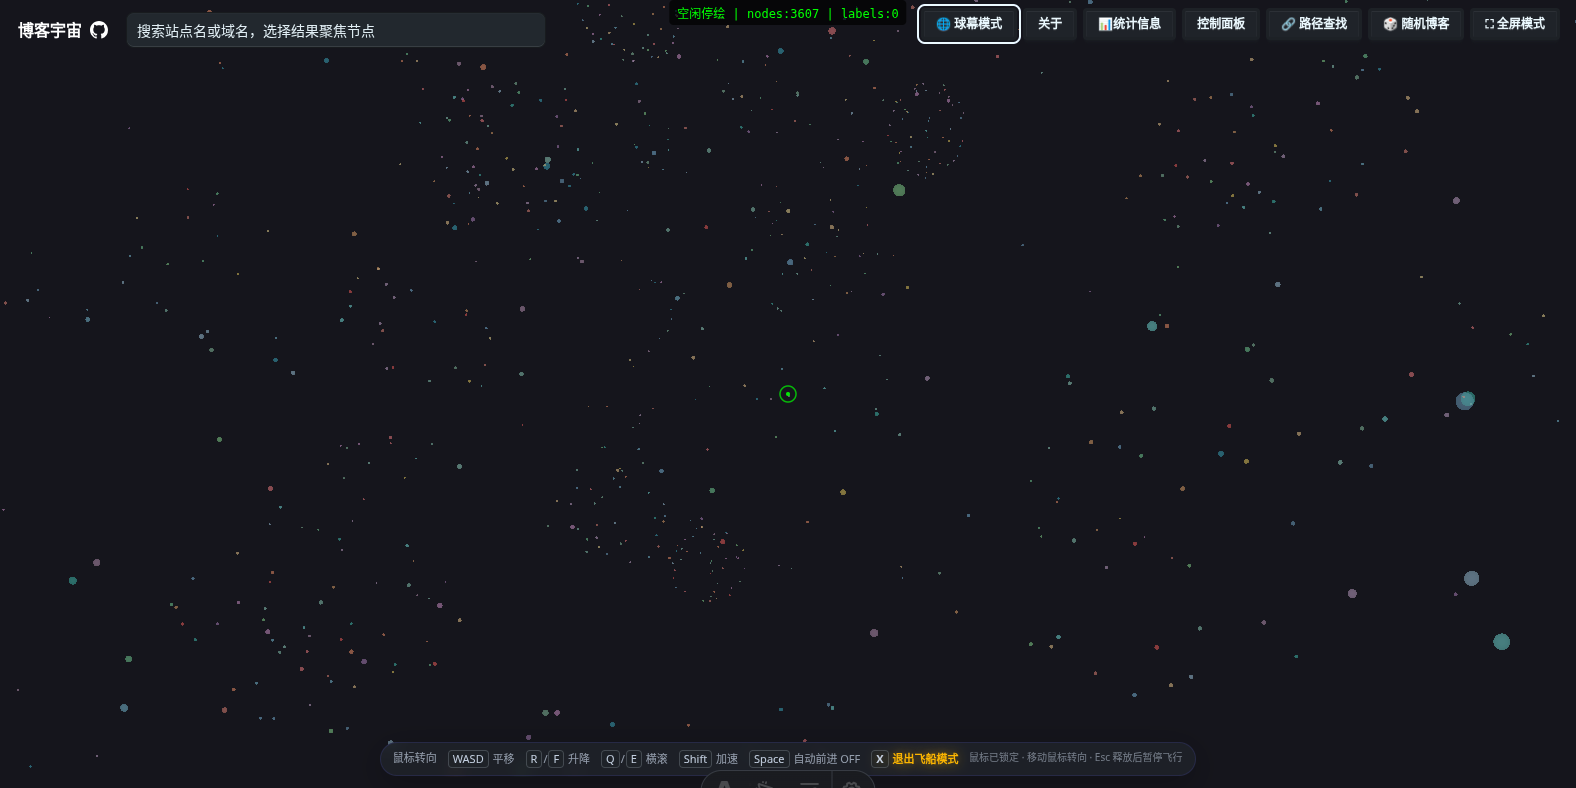
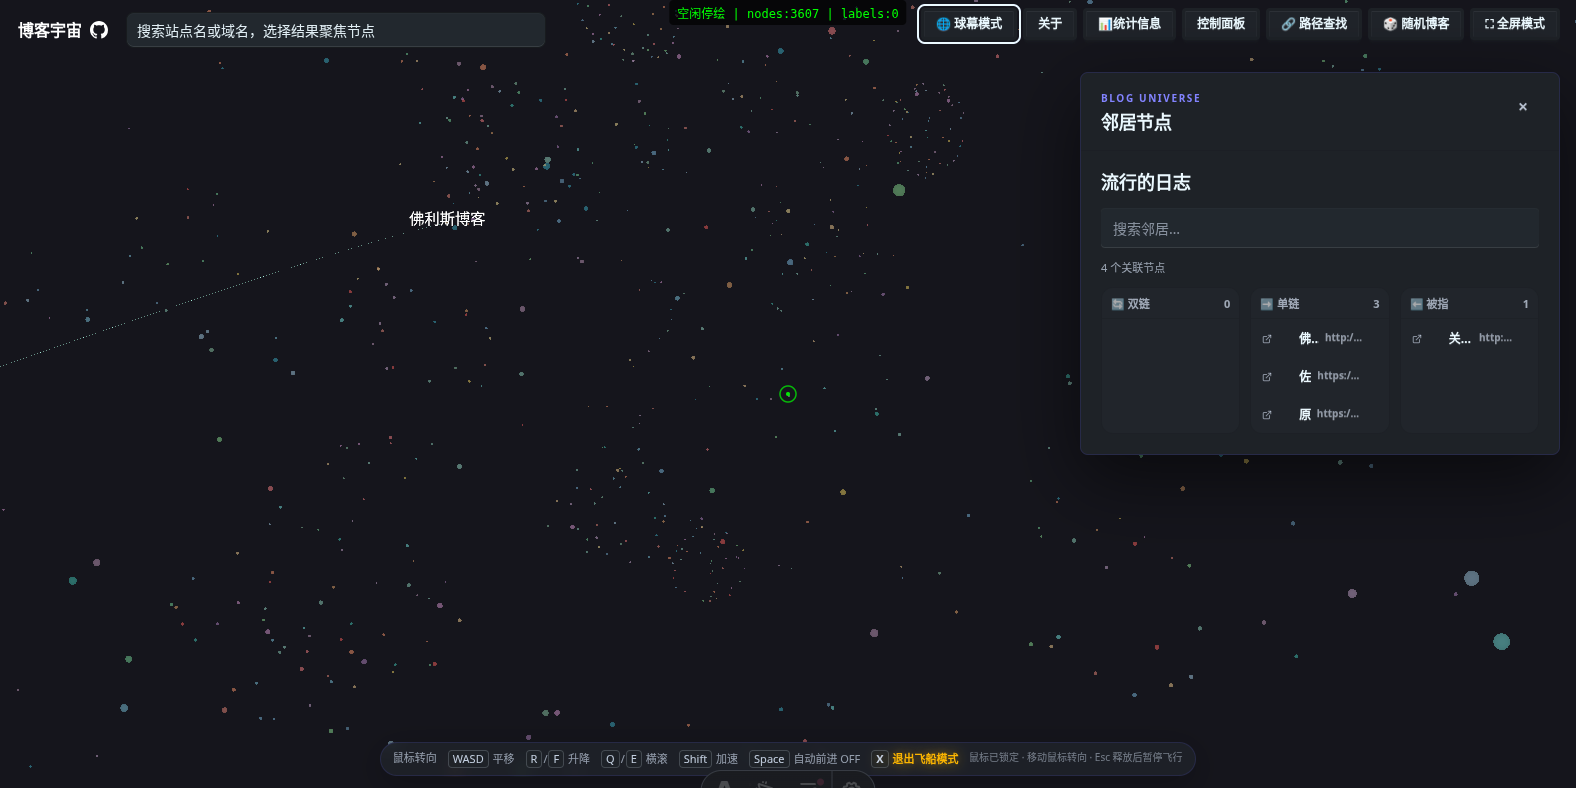
test: 覆盖中键提示与飞控退出

diff --git a/scripts/experiments/frontend-controls-verify.ts b/scripts/experiments/frontend-controls-verify.ts
@@ -96,6 +96,12 @@ async function waitForGraph(page: Page) {
   await page.waitForTimeout(700);
 }
 
+async function canvasCenter(page: Page) {
+  const box = await page.locator("#main canvas").boundingBox();
+  if (!box) throw new Error("Canvas unavailable for pointer verification");
+  return { x: Math.round(box.x + box.width / 2), y: Math.round(box.y + box.height / 2) };
+}
+
 async function cameraState(page: Page): Promise<CameraState> {
   return page.evaluate(() => {
     const camera = window.__graphApi!.ctx!.camera as unknown as {
@@ -198,6 +204,16 @@ async function main() {
   await page.bringToFront();
   await waitForGraph(page);
   await page.evaluate(() => {
+    const opened: unknown[] = [];
+    const originalOpen = window.open;
+    (window as unknown as { __verifyOpened: unknown[] }).__verifyOpened = opened;
+    (window as unknown as { __verifyOriginalOpen: typeof window.open }).__verifyOriginalOpen = originalOpen;
+    window.open = (...args: Parameters<typeof window.open>) => {
+      opened.push(args);
+      return null;
+    };
+  });
+  await page.evaluate(() => {
     (window as unknown as { __verifyKeys: unknown[] }).__verifyKeys = [];
     for (const type of ["keydown", "keyup"] as const) {
       document.addEventListener(
@@ -289,6 +305,40 @@ async function main() {
   await page.locator("dialog.app-panel[open] .app-panel-close").click();
   await page.waitForFunction(() => !document.querySelector("dialog.app-panel[open]"));
 
+  const focusTarget = await page.evaluate(() => {
+    const nodes = window.__graphApi!.getGraphData!().nodes as Array<{
+      id: string;
+      name: string;
+      url: string;
+      x?: number;
+      y?: number;
+      z?: number;
+    }>;
+    const node = nodes.find(
+      (candidate) => candidate.url && candidate.x != null && candidate.y != null && candidate.z != null,
+    );
+    if (!node) return null;
+    window.__graphApi!.focusNodeById!(node.id);
+    return { id: node.id, name: node.name, url: node.url };
+  });
+  if (!focusTarget) throw new Error("No positioned URL node available for hover verification");
+  await sleep(1_100);
+  const hoverCenter = await canvasCenter(page);
+  await page.mouse.move(hoverCenter.x, hoverCenter.y);
+  await page.waitForFunction(() => document.getElementById("graph-tooltip")?.style.display === "block", undefined, {
+    timeout: 5_000,
+  });
+  const tooltipText = await page.evaluate(() => document.getElementById("graph-tooltip")?.textContent ?? "");
+  await page.mouse.click(hoverCenter.x, hoverCenter.y, { button: "middle" });
+  await sleep(80);
+  const opened = await page.evaluate(() => (window as unknown as { __verifyOpened?: unknown[] }).__verifyOpened ?? []);
+  check(
+    "悬停提示中键在新标签页打开网站（不触发页面跳转）",
+    tooltipText.includes("中键在新标签页打开网站") &&
+      opened.some((entry) => Array.isArray(entry) && entry[0] === focusTarget.url),
+    { target: focusTarget, tooltipText, opened },
+  );
+
   await page.locator("#fly-toggle").click();
   const pointerLockMode = await ensurePointerLock(page);
   const hud = await page.evaluate(() => {
@@ -333,10 +383,19 @@ async function main() {
   const afterLook = await cameraState(page);
   const lookPositionChange = length(subtract(afterLook.position, beforeLook.position));
   const lookRotationChange = quaternionDistance(afterLook.quaternion, beforeLook.quaternion);
-  check("鼠标只转向不位移", lookPositionChange < 1e-6 && lookRotationChange > 0.01, {
-    positionChange: round(lookPositionChange),
-    rotationChange: round(lookRotationChange),
-  });
+  const lookDelta = subtract(afterLook.forward, beforeLook.forward);
+  const lookRight = dot(lookDelta, beforeLook.right);
+  const lookUp = dot(lookDelta, beforeLook.up);
+  check(
+    "鼠标右移向上看且不位移",
+    lookPositionChange < 1e-6 && lookRotationChange > 0.01 && lookRight > 0.02 && lookUp > 0.02,
+    {
+      positionChange: round(lookPositionChange),
+      rotationChange: round(lookRotationChange),
+      lookRight: round(lookRight),
+      lookUp: round(lookUp),
+    },
+  );
 
   const movementCases: Array<{
     label: string;
@@ -436,13 +495,38 @@ async function main() {
   check("无输入后停止绘帧", idleEnd - idleStart === 0, { frameDelta: idleEnd - idleStart });
 
   await page.screenshot({ path: screenshotPath, fullPage: false });
+  const rolledBeforeExit = await cameraState(page);
   await page.keyboard.press("x");
   await page.waitForFunction(() => document.getElementById("fly-hud")?.hidden === true);
   const exited = await page.evaluate(() => ({
     hudHidden: document.getElementById("fly-hud")?.hidden === true,
     buttonText: document.getElementById("fly-toggle")?.textContent?.trim(),
   }));
-  check("X 退出飞船模式", exited.hudHidden && exited.buttonText === "🚀 飞船模式", exited);
+  const exitedCamera = await cameraState(page);
+  const exitForwardPreserved = dot(rolledBeforeExit.forward, exitedCamera.forward);
+  const exitLeveled = Math.abs(exitedCamera.right[1]) < 0.02;
+  await sleep(700);
+  const exitIdleStart = await page.evaluate(() => window.__graphApi!.getPerformanceStats!().frames);
+  await sleep(500);
+  const exitIdleEnd = await page.evaluate(() => window.__graphApi!.getPerformanceStats!().frames);
+  check(
+    "X 退出飞船模式并恢复水平视野",
+    exited.hudHidden &&
+      exited.buttonText === "🚀 飞船模式" &&
+      exitForwardPreserved > 0.999 &&
+      exitLeveled &&
+      exitIdleEnd === exitIdleStart,
+    {
+      ...exited,
+      forwardPreserved: round(exitForwardPreserved),
+      rightY: round(exitedCamera.right[1]),
+      idleFrameDelta: exitIdleEnd - exitIdleStart,
+    },
+  );
+  await page.evaluate(() => {
+    const originalOpen = (window as unknown as { __verifyOriginalOpen?: typeof window.open }).__verifyOriginalOpen;
+    if (originalOpen) window.open = originalOpen;
+  });
 
   const failed = checks.filter((entry) => !entry.pass);
   const report = {

diff --git a/src/scripts/graph3d/interaction.test.ts b/src/scripts/graph3d/interaction.test.ts
@@ -36,13 +36,15 @@ test("indexed picking preserves hover, clicks, fly-center targeting and cleans u
   const ix = createInteraction(ctx, [node]);
   const hovered: Array<GraphNode | null> = [];
   const clicked: GraphNode[] = [];
+  const middleClicked: GraphNode[] = [];
   const rightClicked: GraphNode[] = [];
   ix.onHover = (value) => hovered.push(value);
   ix.onClick = (value) => clicked.push(value);
+  ix.onMiddleClick = (value) => middleClicked.push(value);
   ix.onRightClick = (value) => rightClicked.push(value);
 
-  function dispatch(type: string, clientX: number, clientY: number) {
-    const event = Object.assign(new Event(type, { cancelable: true }), { clientX, clientY });
+  function dispatch(type: string, clientX: number, clientY: number, button = 0) {
+    const event = Object.assign(new Event(type, { cancelable: true }), { clientX, clientY, button });
     canvas.dispatchEvent(event);
     return event;
   }
@@ -65,6 +67,9 @@ test("indexed picking preserves hover, clicks, fly-center targeting and cleans u
     dispatch("click", 520, 530);
     dispatch("click", 20, 30);
     expect(clicked).toEqual([node]);
+    expect(dispatch("mousedown", 520, 530, 1).defaultPrevented).toBe(true);
+    expect(dispatch("auxclick", 520, 530, 1).defaultPrevented).toBe(true);
+    expect(middleClicked).toEqual([node]);
     expect(dispatch("contextmenu", 520, 530).defaultPrevented).toBe(true);
     expect(rightClicked).toEqual([node]);
 
@@ -72,9 +77,12 @@ test("indexed picking preserves hover, clicks, fly-center targeting and cleans u
     expect(ix.pickAtCenter()).toBe(node);
     expect(ix.lastPickCandidateCount).toBeGreaterThan(0);
     dispatch("click", 20, 30);
+    dispatch("mousedown", 20, 30, 1);
+    dispatch("auxclick", 20, 30, 1);
     dispatch("contextmenu", 20, 30);
-    expect(clicked).toEqual([node, node]);
-    expect(rightClicked).toEqual([node, node]);
+    expect(clicked).toEqual([node]);
+    expect(middleClicked).toEqual([node]);
+    expect(rightClicked).toEqual([node]);
     ix.setFlyMode(false);
     camera.rotation.y = Math.PI;
     camera.updateMatrixWorld();
@@ -82,7 +90,7 @@ test("indexed picking preserves hover, clicks, fly-center targeting and cleans u
     camera.rotation.y = 0;
     camera.updateMatrixWorld();
     dispatch("click", 20, 30);
-    expect(clicked).toEqual([node, node]);
+    expect(clicked).toEqual([node]);
 
     clock.mockReturnValue(300);
     dispatch("mousemove", 520, 530);
@@ -101,11 +109,14 @@ test("indexed picking preserves hover, clicks, fly-center targeting and cleans u
     clock.mockReturnValue(400);
     dispatch("mousemove", 520, 530);
     dispatch("click", 520, 530);
+    dispatch("mousedown", 520, 530, 1);
+    dispatch("auxclick", 520, 530, 1);
     expect(dispatch("contextmenu", 520, 530).defaultPrevented).toBe(false);
     dispatch("pointerleave", 20, 30);
     expect(hovered).toEqual([node, null, node, null, node, null]);
-    expect(clicked).toEqual([node, node]);
-    expect(rightClicked).toEqual([node, node]);
+    expect(clicked).toEqual([node]);
+    expect(middleClicked).toEqual([node]);
+    expect(rightClicked).toEqual([node]);
   } finally {
     ix.dispose();
     clock.mockRestore();
@@ -171,6 +182,7 @@ test("unchanged hover rays reuse exact picks while camera, scale, clip and layer
     expect(ix.hoveredIndex).toBe(0);
 
     // Explicit activation performs a new exact query, even after cached hover.
+    ix.setFlyMode(false);
     const event = Object.assign(new Event("click"), { clientX: 0, clientY: 0 });
     canvas.dispatchEvent(event);
     canvas.dispatchEvent(event);
@@ -186,7 +198,7 @@ test("unchanged hover rays reuse exact picks while camera, scale, clip and layer
   }
 });
 
-test("flight node activation requires this canvas's pointer lock and preserves relock clicks", () => {
+test("flight mouse activation is suppressed while orbit interactions still use the pointer", () => {
   class Canvas extends EventTarget {
     getBoundingClientRect() {
       return { left: 0, top: 0, width: 1000, height: 1000 };
@@ -233,8 +245,8 @@ test("flight node activation requires this canvas's pointer lock and preserves r
     pointerLock.document.pointerLockElement = canvas;
     activate("click");
     activate("contextmenu");
-    expect(clicked).toEqual([node]);
-    expect(rightClicked).toEqual([node]);
+    expect(clicked).toEqual([]);
+    expect(rightClicked).toEqual([]);
     expect(relockClicks).toBe(3);
 
     // Orbit interactions still use the physical pointer without requiring lock.
@@ -242,8 +254,8 @@ test("flight node activation requires this canvas's pointer lock and preserves r
     ix.setFlyMode(false);
     activate("click", 500, 500);
     activate("contextmenu", 500, 500);
-    expect(clicked).toEqual([node, node]);
-    expect(rightClicked).toEqual([node, node]);
+    expect(clicked).toEqual([node]);
+    expect(rightClicked).toEqual([node]);
   } finally {
     ix.dispose();
     pointerLock.restore();

diff --git a/src/scripts/graph3d/flight-controls.test.ts b/src/scripts/graph3d/flight-controls.test.ts
@@ -8,6 +8,7 @@ import {
   DEFAULT_FLIGHT_LOOK_SENSITIVITY,
   flightActionForKeyEvent,
   isEditableFlightTarget,
+  levelFlightCamera,
 } from "./flight-controls";
 
 function spread(count: number, extent: number) {
@@ -58,6 +59,21 @@ test("flight look applies yaw around the rolled ship's local up axis", () => {
   const after = direction(camera);
 
   expect(after.clone().sub(before).dot(localRight)).toBeGreaterThan(0.1);
+});
+
+test("leaving flight mode levels the horizon without changing the look direction", () => {
+  const camera = new PerspectiveCamera();
+  camera.rotateY(0.7);
+  camera.rotateX(0.4);
+  camera.rotateZ(0.55);
+  const before = direction(camera);
+
+  levelFlightCamera(camera);
+
+  const after = direction(camera);
+  const right = new Vector3(1, 0, 0).applyQuaternion(camera.quaternion);
+  expect(after.dot(before)).toBeGreaterThan(0.9999);
+  expect(right.y).toBeCloseTo(0, 5);
 });
 
 test("physical WASD controls map to translation actions even when key labels change", () => {
